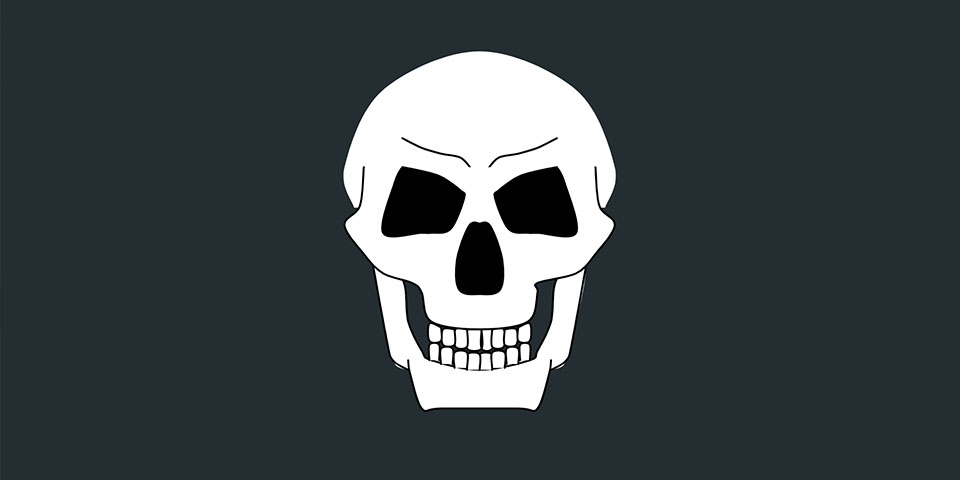
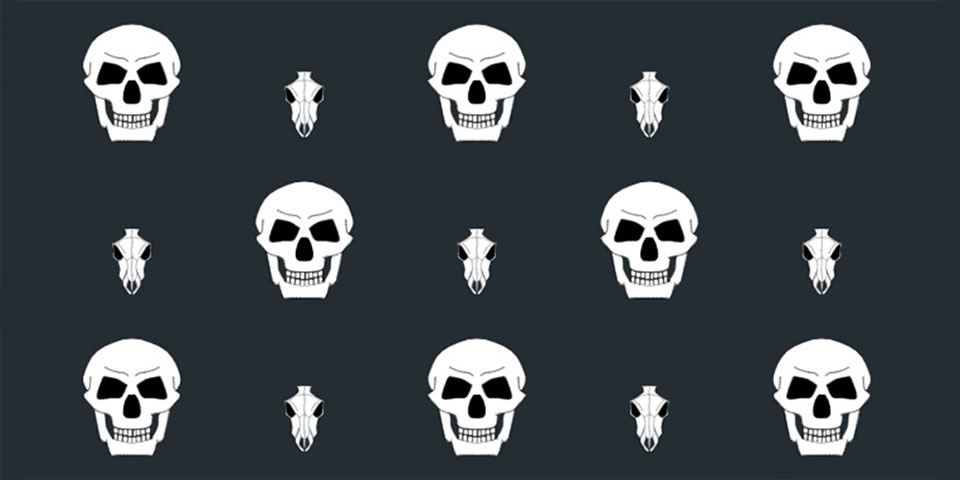
ram skull drawn

diff --git a/face_code.js b/face_code.js
@@ -9,7 +9,7 @@
 
 
 function drawFace1() {
-background(36,45,50);
+// background(36,45,50);
 fill(255);
 // strokeWeight(0.1);
 noStroke();
@@ -404,17 +404,228 @@ endShape();
  * thinness_value ranges from 0-100 and indicates how thin the face is
  */
 function drawFace2(thinness_value) {
-  // head
+  // background(36,45,50)
+  strokeWeight(0.25);
+  stroke(255);
+  // noStroke();
+  fill(255);
   noStroke();
-  fill(200, 150, 150);
-  let head_width = map(thinness_value, 0, 100, 8, 20);
-  rect(-head_width/2, -9, head_width, 18);
-  // rect(-5, -10, 10, 20);
+//skullbase
+beginShape();
+  curveVertex(0,-2.5);
+  curveVertex(0,-2.5);
+  //hornspot
+  curveVertex(-1,-2.4);
+  curveVertex(-0.9,-2.2);
+  curveVertex(-0.9,-1.4)
+  //eyeSocket
+  curveVertex(-2.5,-0.2);
+  curveVertex(-2.8,-0.1);
+  curveVertex(-2.65,1);
+  curveVertex(-2.7,2);
 
-  // eyes
-  fill(240);
-  ellipse(-2, -4, 1);
-  ellipse( 2, -4, 1);
+  curveVertex(-2,2.6);
+  curveVertex(-1.9,3);
+  curveVertex(-1.7,4);
+
+  curveVertex(-1.8,5);
+  curveVertex(-1.5,5.5);
+  curveVertex(-1.2,6);
+  curveVertex(-0.6,6.5);
+  //botMax
+  curveVertex(0,7.6);
+  //rightSide
+  curveVertex(0.6,6.5);
+  curveVertex(1.2,6);
+  curveVertex(1.5,5.5);
+  curveVertex(1.8,5);
+  curveVertex(1.7,4);
+  curveVertex(1.9,3);
+  curveVertex(2,2.6);
+  
+  curveVertex(2.7,2);
+  curveVertex(2.65,1);
+  curveVertex(2.8,-0.1);
+  curveVertex(2.5,-0.2);
+
+  curveVertex(0.9,-1.4);
+  curveVertex(0.9,-2.2);
+  curveVertex(1,-2.4);
+  curveVertex(0,-2.5);
+  curveVertex(0,-2.5);
+endShape();
+  stroke(0);
+  strokeWeight(0.1);
+//NoseBot
+
+fill(255);
+  beginShape();
+    curveVertex(0,3);
+    curveVertex(0,3);
+    curveVertex(-0.3,3.5);
+    curveVertex(-0.6,4);
+    curveVertex(-1.3,6);
+    curveVertex(-1,7);
+
+    curveVertex(-0.3,8);   
+    curveVertex(0,7.7); 
+    curveVertex(0.3,8);
+
+    curveVertex(1,7);
+    curveVertex(1.3,6);
+    curveVertex(0.6,4);
+    curveVertex(0.3,3.5);
+    curveVertex(0,3);
+    curveVertex(0,3);
+  endShape();
+
+
+//noseDetail
+fill(36,45,50);
+stroke(36,45,50);
+//Left
+  beginShape();
+    curveVertex(0,7.5);
+    curveVertex(0,7.5);
+    curveVertex(-0.1,7.6);
+    curveVertex(-0.2,7.5);
+    curveVertex(-0.6,7);
+    curveVertex(-0.7,6.5);
+    curveVertex(-0.2,5);
+    curveVertex(-0.2,5.5);
+    curveVertex(-0.1,7.2);
+    curveVertex(0,7.5);
+    curveVertex(0,7.5);
+  endShape();
+  //Right
+  beginShape();
+    curveVertex(0,7.5);
+    curveVertex(0,7.5);
+    curveVertex(0.1,7.6);
+    curveVertex(0.2,7.5);
+    curveVertex(0.6,7);
+    curveVertex(0.7,6.5);
+    curveVertex(0.2,5);
+    curveVertex(0.2,5.5);
+    curveVertex(0.1,7.2);
+    curveVertex(0,7.5);
+    curveVertex(0,7.5);
+  endShape();
+//NoseTop
+strokeWeight(0.05);
+fill(255);
+  beginShape();
+    curveVertex(0,2);
+    curveVertex(0,2);
+    curveVertex(-0.7,2.6);
+    curveVertex(-0.6,3.5);
+    curveVertex(-0.7,5);
+    curveVertex(0,6);
+    curveVertex(0.7,5);
+    curveVertex(0.6,3.5);
+    curveVertex(0.7,2.6);
+    curveVertex(0,2);
+    curveVertex(0,2);
+  endShape();
+
+//EyeLeft
+fill(0);
+  beginShape();
+    curveVertex(-2.7,0);
+    curveVertex(-2.7,0);
+    curveVertex(-2.2,0.3);
+    curveVertex(-2,0.6);
+    curveVertex(-1.5,1.5);
+    curveVertex(-1.3,2);
+    curveVertex(-1.9,2.5);
+    curveVertex(-2.5,2);
+    curveVertex(-2.6,1.6);
+    curveVertex(-2.7,0.2);
+    curveVertex(-2.7,0);
+    curveVertex(-2.7,0);
+    endShape();
+  //EyeRight
+  beginShape();  
+    curveVertex(2.6,0);
+    curveVertex(2.6,0);
+    curveVertex(2.2,0.3);
+    curveVertex(2,0.6);
+    curveVertex(1.5,1.5);
+    curveVertex(1.3,2);
+    curveVertex(1.9,2.5);
+    curveVertex(2.5,2);
+    curveVertex(2.6,1.6);
+    curveVertex(2.7,0.2);
+    curveVertex(2.6,0);
+    curveVertex(2.6,0);
+  endShape();
+
+  //DETAILING
+  noFill();
+  strokeWeight(0.05);
+  stroke(0);
+  beginShape();
+    curveVertex(0,-2.6);
+    curveVertex(0,-2.6);
+    curveVertex(0.05,-2);
+    curveVertex(-0.05,-1.5);
+    curveVertex(0.05,-0.2);
+    curveVertex(-0.05,1);
+    curveVertex(0.05,2);
+    curveVertex(0,2.5);
+    curveVertex(-0.05,4);
+    curveVertex(0.05,5);
+    curveVertex(0,6);
+    curveVertex(0,6);
+  endShape();
+  //forhead
+  beginShape();
+    curveVertex(-2.6,0);
+    curveVertex(-2.6,0);
+    curveVertex(-2.2,-0.1);     
+    curveVertex(-1,-1);
+    curveVertex(1,-1);    
+    curveVertex(2.2,-0.1);
+    curveVertex(2.6,0);
+    curveVertex(2.6,0);
+  endShape();
+  //eyes
+  //L
+  beginShape();
+    curveVertex(-2,0);
+    curveVertex(-2,0);
+    curveVertex(-1.5,0.5);
+    curveVertex(-1,1.5);
+    curveVertex(-1,1.5);    
+  endShape();
+
+  beginShape();
+    curveVertex(-1.9,2.5);
+    curveVertex(-1.9,2.5);
+    curveVertex(-1.6,2.4);
+    curveVertex(-1.2,2);
+    curveVertex(-0.7,2.6);
+    curveVertex(-0.7,2.6);
+  endShape();
+  //R
+  beginShape();
+    curveVertex(1.9,2.5);
+    curveVertex(1.9,2.5);
+    curveVertex(1.6,2.4);
+    curveVertex(1.2,2);
+    curveVertex(0.7,2.6);
+    curveVertex(0.7,2.6);
+  endShape();
+  beginShape();
+    curveVertex(2,0);
+    curveVertex(2,0);
+    curveVertex(1.5,0.5);
+    curveVertex(1,1.5);
+    curveVertex(1,1.5);    
+  endShape();
+
+
+
 }
 
 /*

diff --git a/arrangement.js b/arrangement.js
@@ -26,7 +26,7 @@ function changeRandomSeed() {
 }
 
 // global variables for colors
-const bg_color1 = [225, 206, 187];
+const bg_color1 = [36,45,50];
 
 function mouseClicked() {
   changeRandomSeed();

diff --git a/editor.js b/editor.js
@@ -37,7 +37,7 @@ function setup () {
   faceSelector.parent('selector1Container');
 }
 
-const bg_color = [225, 206, 187];
+const bg_color = [36,45,50];
 
 function draw () {
   strokeWeight(0.2);
